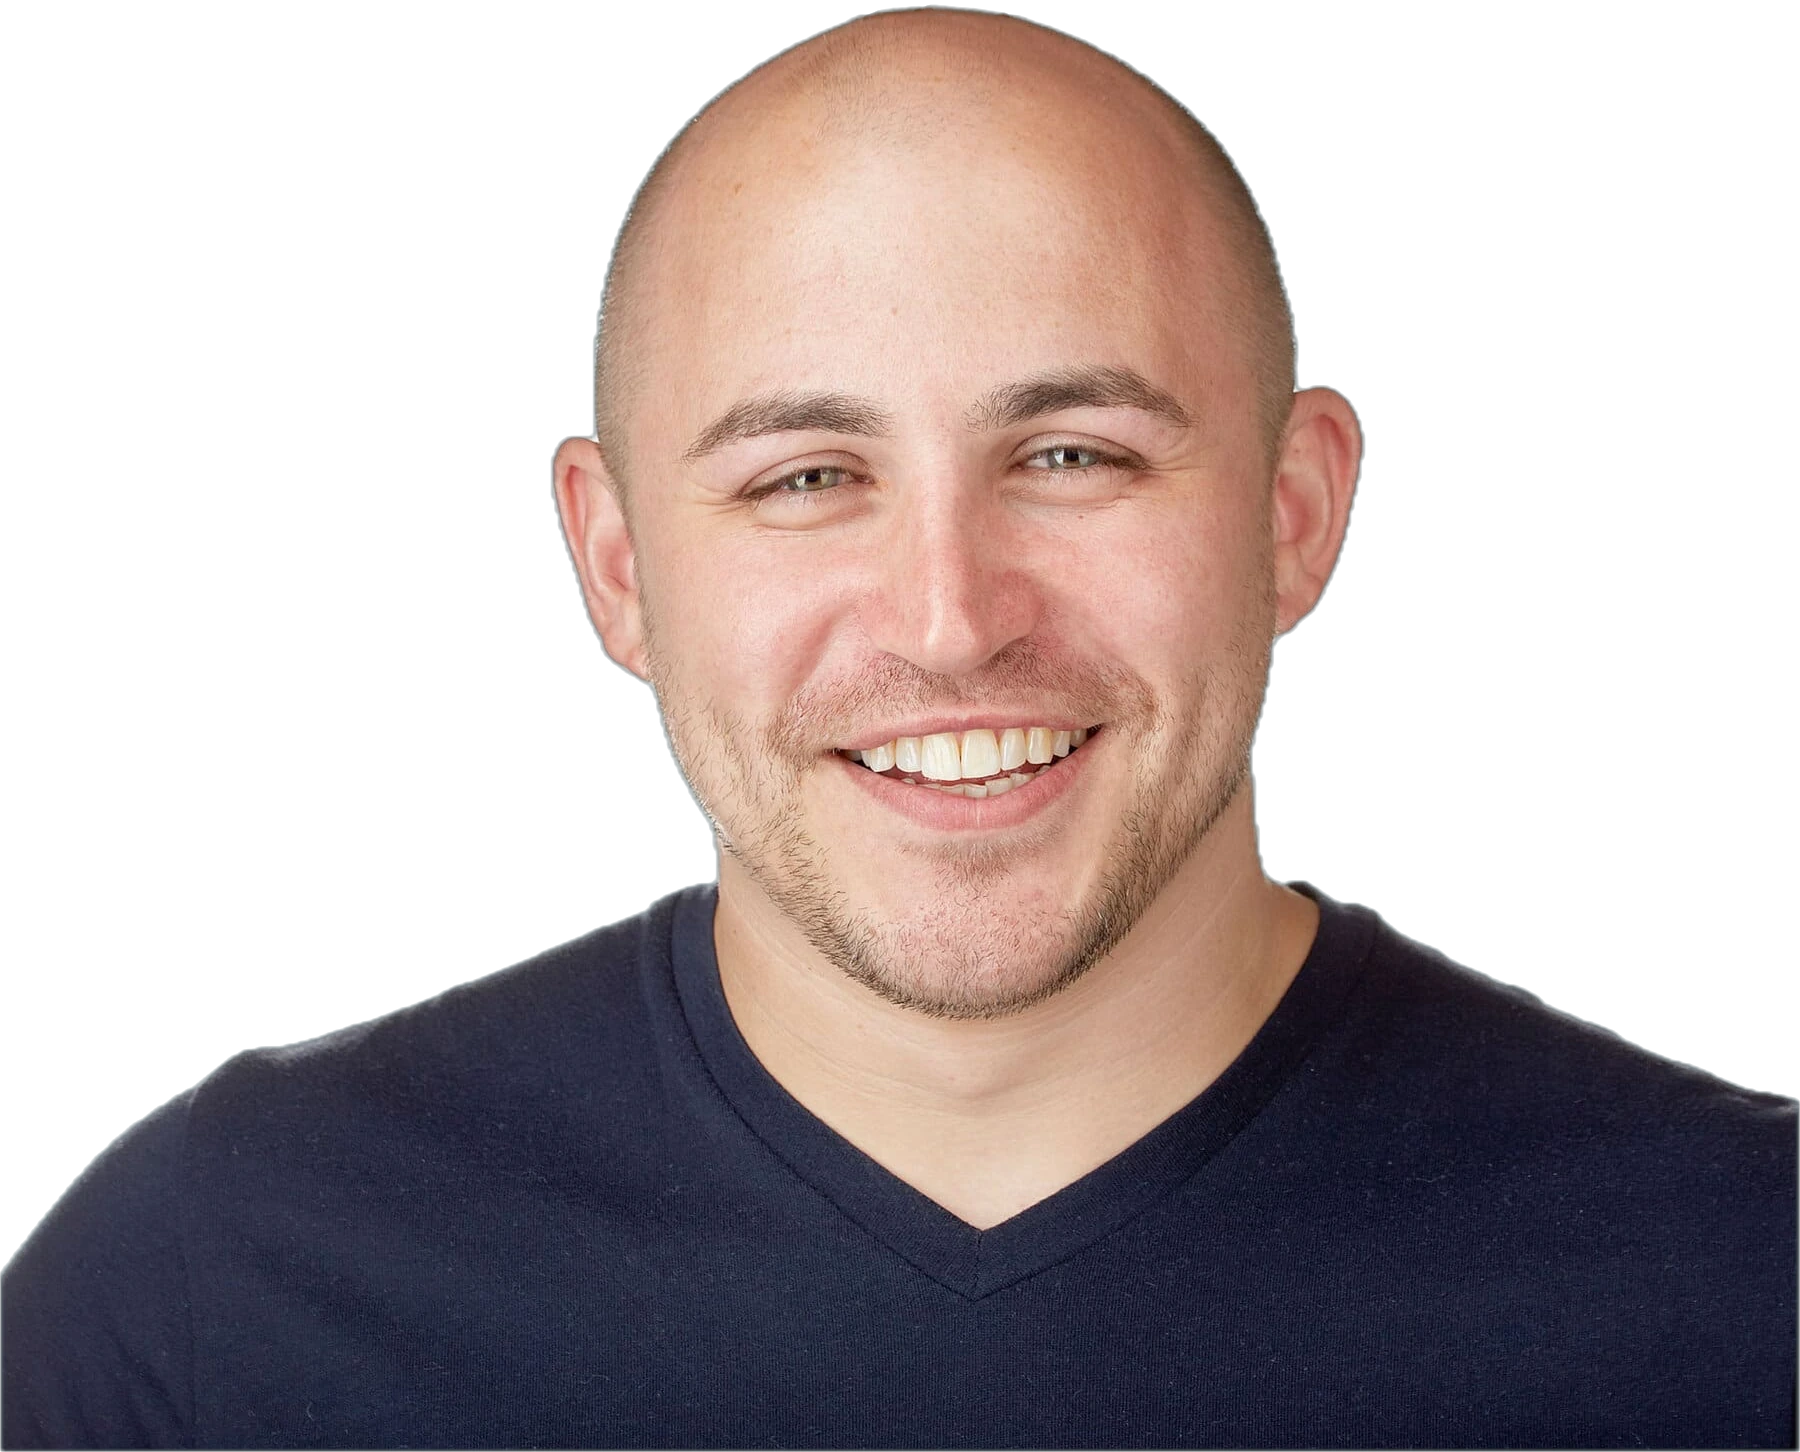
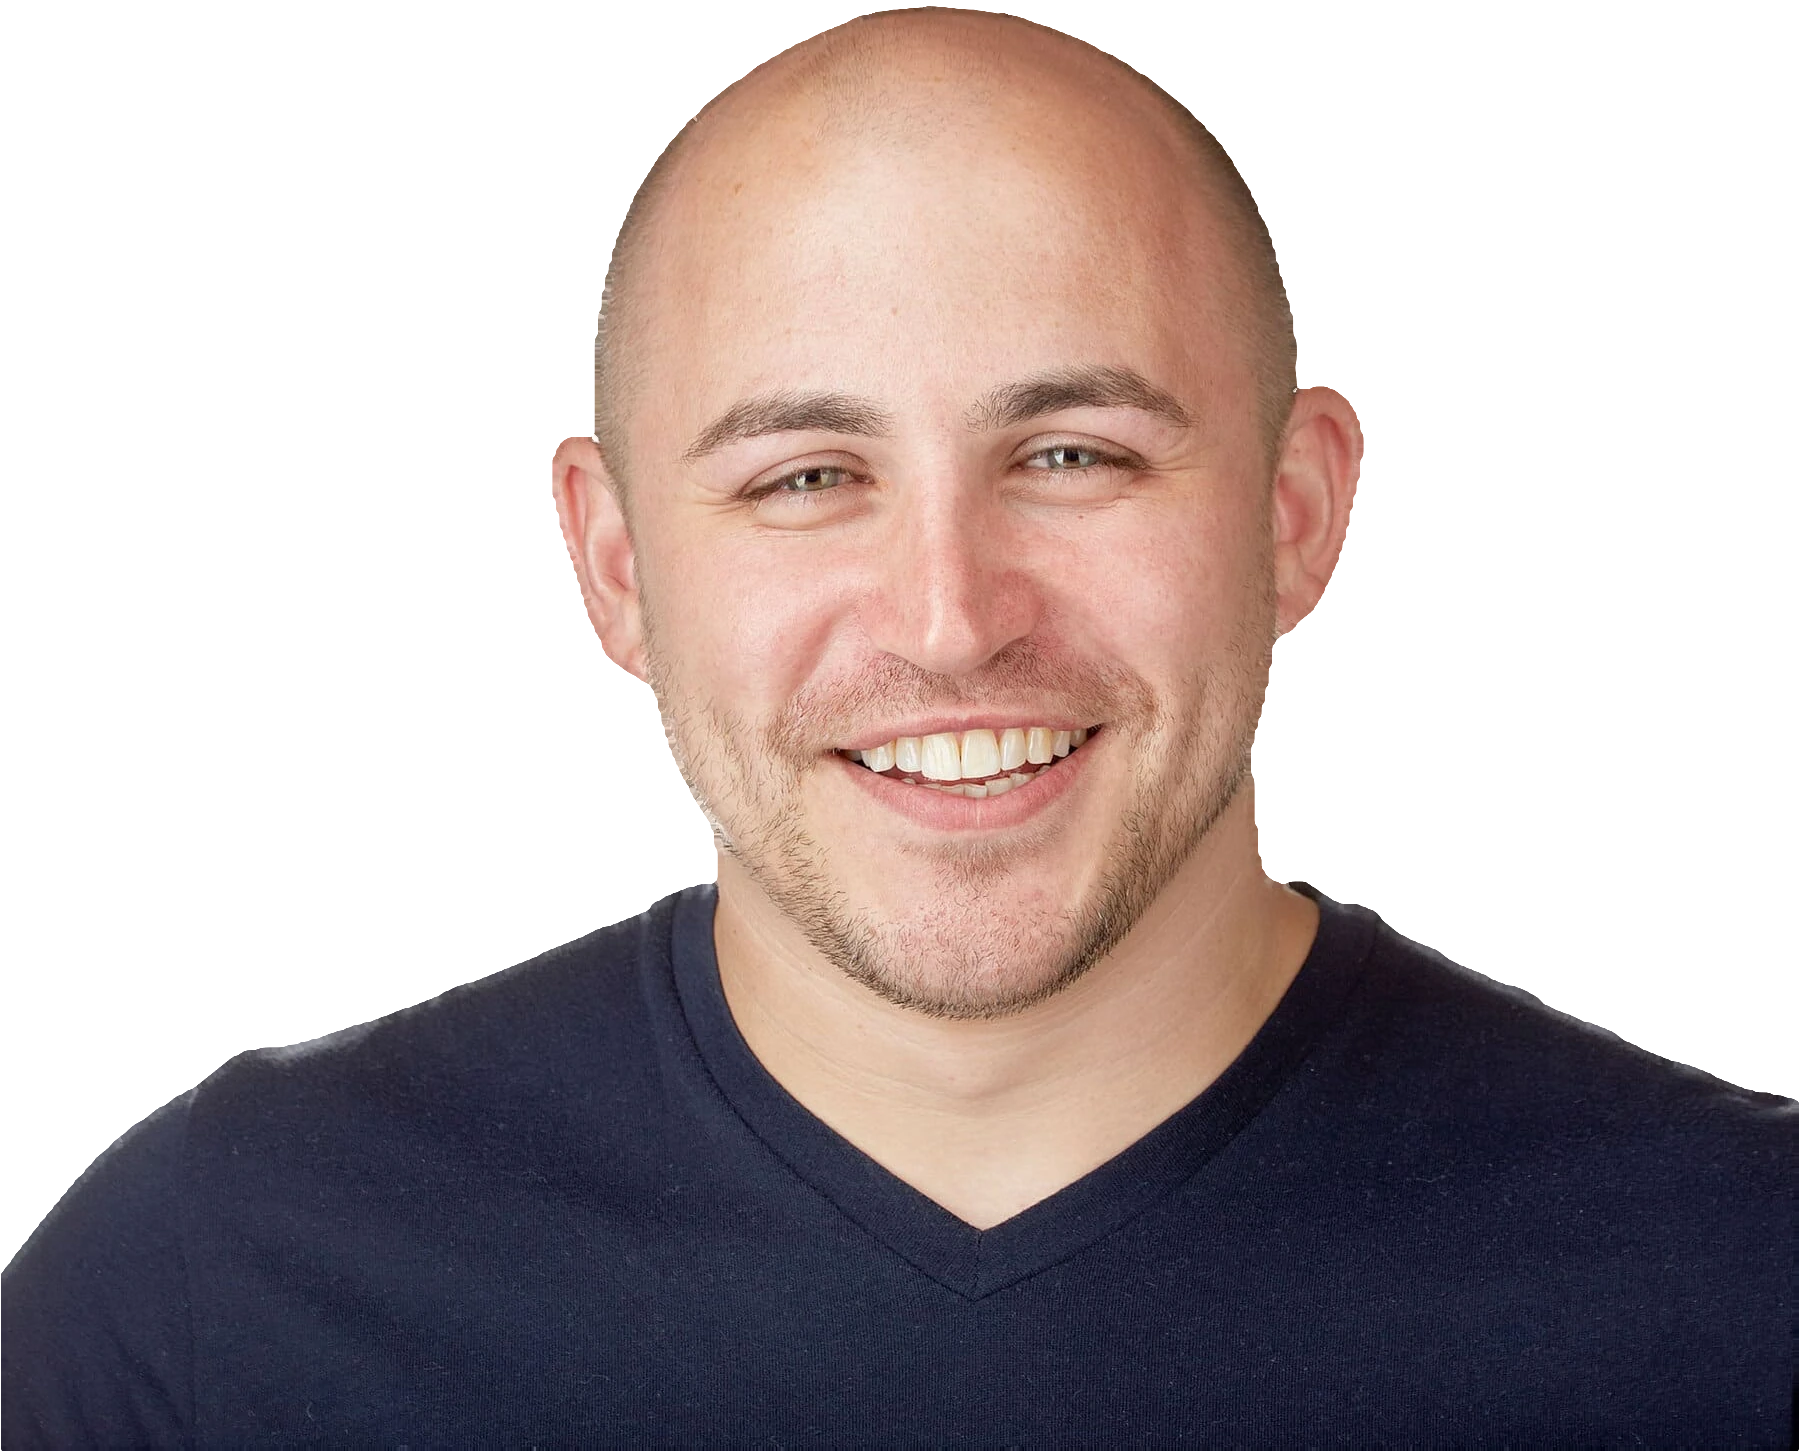
One background-agnostic matte; lighter Clear Water stop; kill the yellow cast
Ole's suggestion was the right one: rather than blending the cutout's edge
toward a particular ground — which meant one asset per ground, and Clear Water
now has two — the matte itself is made honest. Every pixel takes the subject's
own colour via the edge-extend, the matte is choked, and the remaining ramp is
compressed to about a pixel, so only 0.08% of pixels carry partial coverage
(was 2.8%). Straight compositing is then simply correct wherever it lands:
measured rim-vs-interior +1.8 on the dark plate and +4.4 on the lifted band,
from a single file. At display size the browser resamples the hard edge back to
a smooth one using his colour rather than a guess at the background's.

The Clear Water lift goes lighter, to #236c84 — the shirt now reads at 3.02:1
against the band instead of 1.19:1. It can go that far because none of the copy
reaches down there: evaluating the gradient under each element individually, the
lightest ground under any hero text is rgb(20,70,87), where the worst case still
measures 5.68:1.

And the toning was making his face yellow in all three. The warm layer at a blue
limit of 115 was adding 38 points of yellowness — jaundice, not warmth — so it
is now 195 at 30%, which adds about 2. The multiply layer had the opposite
fault: at 50% of a deeper tint it pulled 9.6 luminance out of the highlights and
cooled them by 5.2, cancelling the warm layer completely. Pale tint at 28% now:
highlights -2.8 luminance, blacks -0.1.

diff --git a/design/clear-water.html b/design/clear-water.html
@@ -53,13 +53,15 @@ nav a:hover{color:var(--teal)}
    t-shirt meets the band directly — at a flat #0b2a34 the two are 1.19:1 apart
    and the edge simply bleeds. There the ground lifts: mostly vertical but
    raked a little toward the lower left, which is where the near shoulder sits
-   and where the problem is worst. Against the lifted #17495a the shirt reads at
-   1.82:1, and the copy is unaffected — 9.83:1 for the headline, 5.05:1 for the
-   eyebrow, measured at the lightest stop. */
+   and where the problem is worst. The lightest stop is #236c84, which puts the
+   shirt at 3.02:1 instead of 1.19:1. The copy can take it because none of it
+   reaches down there — measured element by element against the gradient
+   evaluated under each one, the lightest ground under any hero text is
+   rgb(15,53,68). */
 .hero{color:#eaf3f5;padding:calc(var(--section)*.85) 0 0;position:relative;isolation:isolate;overflow:clip;
   background:var(--deep)}
 @media(max-width:879px){
-  .hero{background:linear-gradient(199deg,#0a2530 0%,#0b2a34 38%,#10394a 72%,#17495a 100%)}
+  .hero{background:linear-gradient(199deg,#0a2530 0%,#0b2a34 34%,#164b5d 72%,#236c84 100%)}
 }
 /* A very large, very quiet dark round behind the top left, so the corner has
    some weight and the eye starts there. */
@@ -148,12 +150,12 @@ section{padding:var(--section) 0}
    red-minus-blue — that is the warmth, measured rather than guessed. */
 .aboutPhoto{margin:0;width:min(300px,62vw);justify-self:start;position:relative;isolation:isolate}
 .aboutPhoto img{width:100%;height:auto;aspect-ratio:1;object-fit:cover;border-radius:50%;display:block;
-  box-shadow:0 0 0 1px var(--line);filter:brightness(1.18)}
+  box-shadow:0 0 0 1px var(--line);filter:brightness(1.10)}
 @supports (mix-blend-mode:multiply){
   .aboutPhoto::before,.aboutPhoto::after{content:"";position:absolute;inset:0;border-radius:50%;
     pointer-events:none}
-  .aboutPhoto::before{background:#e0f6fa;mix-blend-mode:multiply;opacity:.30}
-  .aboutPhoto::after{background:#ffff73;mix-blend-mode:darken;opacity:.70}
+  .aboutPhoto::before{background:#e8f8fb;mix-blend-mode:multiply;opacity:.22}
+  .aboutPhoto::after{background:#ffffc3;mix-blend-mode:darken;opacity:.30}
 }
 
 /* fees */
@@ -262,7 +264,7 @@ footer a{color:#d3e6ea}
         directly — you'll be speaking to me, not to a receptionist.</p>
     </div>
     <figure class="heroFig">
-      <img src="assets/john-cutout-dark.webp?v15" alt="John Goss" width="1800" height="1452" fetchpriority="high">
+      <img src="assets/john-cutout-dark.webp?v16" alt="John Goss" width="1800" height="1452" fetchpriority="high">
     </figure>
   </div>
 </section>
@@ -351,7 +353,7 @@ footer a{color:#d3e6ea}
       </div>
     </div>
     <figure class="aboutPhoto">
-      <img src="assets/john-portrait-round.webp?v15" alt="John Goss" width="620" height="620" loading="lazy">
+      <img src="assets/john-portrait-round.webp?v16" alt="John Goss" width="620" height="620" loading="lazy">
     </figure>
   </div>
 </section>

diff --git a/design/quiet-practice.html b/design/quiet-practice.html
@@ -118,13 +118,17 @@ section{padding:var(--section) 0}
 /* A toning, done entirely in CSS — the image file is untouched. Two overlays,
    each reaching one end of the tonal range:
 
-     multiply  scales each channel, so it tints toward the page's dark green
-               proportionally and BLACK STAYS BLACK (anything x 0 is 0) — the
-               shadows never lift the way a lighten layer made them
+     multiply  a very pale tint of the page's own hue. Multiply scales each
+               channel, so black stays black — but it also bites hardest where
+               the picture is brightest, so it is kept pale: at 50%% of a deeper
+               tint it was pulling 9.6 luminance out of his highlights and
+               cooling them by 5.2, which cancelled the warm layer entirely.
+
      darken    with R and G both at 255, so the layer can only ever pull the
-               BLUE channel — the lights warm and nothing gets darker. Measured:
-               highlights +20 red-minus-blue at -1.5 luminance, midtones and
-               shadows unchanged to two decimal places.
+               BLUE channel — the lights warm and nothing gets darker. Kept
+               deliberately shallow: at a blue limit of 115 it added 38 points
+               of yellowness to his face, which reads as jaundice rather than
+               warmth. At 195 it adds 2.1, which is a hint.
 
    Measured against the actual photograph: blacks -0.5, shadows -1.9, midtones
    -5.0, highlights -7.1 blue. */
@@ -134,8 +138,8 @@ section{padding:var(--section) 0}
 @supports (mix-blend-mode:multiply){
   .aboutPhoto::before,.aboutPhoto::after{content:"";position:absolute;inset:0;border-radius:50%;
     pointer-events:none}
-  .aboutPhoto::before{background:#c8ece0;mix-blend-mode:multiply;opacity:.50}
-  .aboutPhoto::after{background:#ffff73;mix-blend-mode:darken;opacity:.70}
+  .aboutPhoto::before{background:#e6f4ee;mix-blend-mode:multiply;opacity:.28}
+  .aboutPhoto::after{background:#ffffc3;mix-blend-mode:darken;opacity:.30}
 }
 .prose{max-width:64ch}
 .prose p{color:var(--muted);font-size:18px}
@@ -245,7 +249,7 @@ footer a{color:#d7e2dc}
         we'll find a time to talk. You'll be speaking to me, not to a receptionist.</p>
     </div>
     <figure class="portrait">
-      <span class="cutframe"><img src="assets/john-cutout.webp?v15" alt="John Goss" width="1800" height="1452" fetchpriority="high"></span>
+      <span class="cutframe"><img src="assets/john-cutout.webp?v16" alt="John Goss" width="1800" height="1452" fetchpriority="high"></span>
     </figure>
   </div>
 </section>
@@ -313,7 +317,7 @@ footer a{color:#d7e2dc}
     </div>
     </div>
     <figure class="aboutPhoto">
-      <img src="assets/john-portrait-round.webp?v15" alt="John Goss" width="620" height="620" loading="lazy">
+      <img src="assets/john-portrait-round.webp?v16" alt="John Goss" width="620" height="620" loading="lazy">
     </figure>
   </div>
 </section>

diff --git a/design/full-colour.html b/design/full-colour.html
@@ -209,13 +209,17 @@ h2{font-size:clamp(30px,4.6vw,52px)}
 /* A toning, done entirely in CSS — the image file is untouched. Two overlays,
    each reaching one end of the tonal range:
 
-     multiply  scales each channel, so it tints toward the block's own teal
-               proportionally and BLACK STAYS BLACK (anything x 0 is 0) — the
-               shadows never lift the way a lighten layer made them
+     multiply  a very pale tint of the page's own hue. Multiply scales each
+               channel, so black stays black — but it also bites hardest where
+               the picture is brightest, so it is kept pale: at 50%% of a deeper
+               tint it was pulling 9.6 luminance out of his highlights and
+               cooling them by 5.2, which cancelled the warm layer entirely.
+
      darken    with R and G both at 255, so the layer can only ever pull the
-               BLUE channel — the lights warm and nothing gets darker. Measured:
-               highlights +20 red-minus-blue at -1.5 luminance, midtones and
-               shadows unchanged to two decimal places.
+               BLUE channel — the lights warm and nothing gets darker. Kept
+               deliberately shallow: at a blue limit of 115 it added 38 points
+               of yellowness to his face, which reads as jaundice rather than
+               warmth. At 195 it adds 2.1, which is a hint.
 
    Measured against the actual photograph: blacks -0.5, shadows -1.9, midtones
    -5.0, highlights -7.1 blue. */
@@ -224,8 +228,8 @@ h2{font-size:clamp(30px,4.6vw,52px)}
 @supports (mix-blend-mode:multiply){
   .aboutPhoto::before,.aboutPhoto::after{content:"";position:absolute;inset:0;border-radius:50%;
     pointer-events:none}
-  .aboutPhoto::before{background:#c4ece8;mix-blend-mode:multiply;opacity:.50}
-  .aboutPhoto::after{background:#ffff73;mix-blend-mode:darken;opacity:.70}
+  .aboutPhoto::before{background:#e4f4f1;mix-blend-mode:multiply;opacity:.28}
+  .aboutPhoto::after{background:#ffffc3;mix-blend-mode:darken;opacity:.30}
 }
 
 /* fees — rows, not cards */
@@ -389,7 +393,7 @@ footer a:hover{color:#fff}
         whichever feels easiest today.</p>
     </div>
     <figure class="heroFig">
-      <img src="assets/john-cutout.webp?v15" alt="John Goss" width="1800" height="1452" fetchpriority="high">
+      <img src="assets/john-cutout.webp?v16" alt="John Goss" width="1800" height="1452" fetchpriority="high">
     </figure>
   </div>
 </section>
@@ -495,7 +499,7 @@ footer a:hover{color:#fff}
         <a class="more" href="/about">More about me and how I work</a>
       </div>
       <figure class="aboutPhoto">
-        <img src="assets/john-portrait-round.webp?v15" alt="John Goss" width="620" height="620" loading="lazy">
+        <img src="assets/john-portrait-round.webp?v16" alt="John Goss" width="620" height="620" loading="lazy">
       </figure>
     </div>
   </div>

diff --git a/scripts/build-cutouts.py b/scripts/build-cutouts.py
@@ -19,7 +19,10 @@ Three assets come out in design/assets/:
                           narrower than the image: the crop is made by the frame or the viewport,
                           never by a line floating mid-section.
 
-  john-cutout-dark.webp   the same figure prepared for dark grounds. A matte pulled from a white
+  john-cutout-dark.webp   the same figure with a hard, honest matte: subject
+                          colour in every pixel and almost no partial coverage,
+                          so it composites correctly against any ground rather
+                          than being tuned to one. A matte pulled from a white
                           backdrop carries light wrap on the silhouette, which glows when
                           composited onto a dark band — the same problem as green spill. Treated
                           the standard keyer way: colour edge-extend (partially covered pixels
@@ -60,59 +63,50 @@ def knockout():
     print(f"  knockout: {im.size[0]}x{im.size[1]}")
 
 
-def dark_variant(bg=(13, 48, 59)):
-    """Prepare the figure for a dark ground.
+def solid_matte():
+    """One asset that composites correctly against ANY ground.
 
-    A matte lifted from a white backdrop is doubly wrong on a dark band: the
-    partially covered pixels carry backdrop-contaminated colour, and even after
-    decontamination the real rim light in the photograph reads as a glow. The
-    fix is the one a compositor uses on a dark plate:
+    The earlier variants blended their edge toward a specific destination
+    colour, which meant one asset per background — and Clear Water has two. The
+    fix is to make the matte honest instead of tuned:
 
-      1. colour edge-extend  — partial pixels take the nearest fully opaque
-         colour, so no backdrop colour survives in the fringe at all
-      2. choke               — pull the matte in, dropping the outermost and
-         most contaminated coverage
-      3. edge blend          — mix the remaining partial pixels toward the
-         DESTINATION colour in proportion to how uncovered they are, so the
-         fringe sits in the band instead of floating in front of it
-      4. negative light wrap — a narrow inward darkening, the inverse of the
-         light wrap you would add on a bright plate
+      1. colour edge-extend  every partially covered pixel takes the colour of
+         the nearest fully opaque pixel, so no backdrop colour survives anywhere
+         in the fringe — the RGB is the subject's own, everywhere
+      2. choke               pull the matte in past the contaminated coverage
+      3. harden the alpha    compress the remaining ramp to about a pixel, so
+         there is almost no partial coverage left to carry a wrong colour
+
+    Then `out = subject x alpha + ground x (1 - alpha)` is simply correct for
+    whatever ground it lands on. At display size the browser resamples the hard
+    edge back to a smooth one, using the subject's colour rather than a guess at
+    the background's.
     """
-    # Two contexts: the circular plate (7,32,40) above 880px and the lifted band
-    # (23,73,90) below it. The blend target sits between them, so neither shows
-    # more than about 10 points of luminance mismatch at the very edge.
-    bgv = np.array(bg, float)
     m = np.array(Image.open(f"{OUT}/john-cutout.webp").convert("RGBA")).astype(np.float32)
     A = m[..., 3:4] / 255.0
     RGB = m[..., :3]
     core = A[..., 0] >= 0.97
     _, ind = distance_transform_edt(~core, return_indices=True)
-    ext = RGB[ind[0], ind[1]]
-    w = np.clip((A[..., 0] - 0.05) / 0.92, 0, 1)[..., None]
-    RGB2 = RGB * w + ext * (1 - w)                       # 1. edge-extend
-    A2 = np.clip((A - 0.22) / 0.78, 0, 1)                # 2. choke, ~0.9px
-    blend = np.clip((1.0 - A2) * 0.9, 0, 1)              # 3. blend toward the ground
-    RGB3 = RGB2 * (1 - blend) + bgv * blend
-    dist = distance_transform_edt(A2[..., 0] > 0.5)
-    wrap = np.clip((2.6 - dist) / 2.6, 0, 1) * (A2[..., 0] > 0.02)
-    RGB4 = RGB3 * (1 - 0.14 * wrap)[..., None]           # 4. negative wrap
-    Image.fromarray(np.dstack([np.clip(RGB4, 0, 255), np.clip(A2 * 255, 0, 255)]).astype(np.uint8),
+    RGB2 = RGB[ind[0], ind[1]]                           # 1. subject colour everywhere
+    A2 = np.clip((A - 0.30) / 0.55, 0, 1)                # 2. choke
+    A3 = np.clip((A2 - 0.5) * 6.0 + 0.5, 0, 1)           # 3. harden to ~1px of ramp
+    Image.fromarray(np.dstack([np.clip(RGB2, 0, 255), np.clip(A3 * 255, 0, 255)]).astype(np.uint8),
                     "RGBA").save(f"{OUT}/john-cutout-dark.webp", "WEBP",
                                  quality=92, alpha_quality=100, exact=True, method=6)
     d = np.array(Image.open(f"{OUT}/john-cutout-dark.webp").convert("RGBA")).astype(np.float32)
     aa = d[..., 3:4] / 255.0
-    comp = d[..., :3] * aa + bgv * (1 - aa)
-    cl = 0.2126 * comp[..., 0] + 0.7152 * comp[..., 1] + 0.0722 * comp[..., 2]
-    dd = distance_transform_edt(aa[..., 0] > 0.02)
-    bgl = 0.2126 * bgv[0] + 0.7152 * bgv[1] + 0.0722 * bgv[2]
-    prof = [(lo, float(cl[sel].mean()))
-            for lo, hi in [(0, 1), (1, 2), (2, 3), (3, 5), (5, 8), (8, 14), (14, 25)]
-            for sel in [(dd >= lo) & (dd < hi) & (aa[..., 0] > 0.02)] if sel.any()]
-    print("  dark variant on rgb%s (luminance %.0f) by depth: %s"
-          % (tuple(int(v) for v in bg), bgl, ", ".join(f"{lo}px {v:.0f}" for lo, v in prof)))
-    interior = prof[-1][1]
-    overshoot = max(v for _, v in prof[:3]) - interior
-    print("  outermost 3px vs interior: %+.1f  (positive = a bright rim; want <= 0)" % overshoot)
+    partial = ((aa > 0.02) & (aa < 0.98)).mean() * 100
+    print("  solid matte: %.2f%% of pixels carry partial coverage (was ~2.8%%)" % partial)
+    for bg in [(7, 32, 40), (30, 98, 120), (247, 244, 238)]:
+        bgv = np.array(bg, float)
+        comp = d[..., :3] * aa + bgv * (1 - aa)
+        cl = 0.2126 * comp[..., 0] + 0.7152 * comp[..., 1] + 0.0722 * comp[..., 2]
+        dd = distance_transform_edt(aa[..., 0] > 0.5)
+        prof = [float(cl[(dd >= lo) & (dd < hi) & (aa[..., 0] > 0.5)].mean())
+                for lo, hi in [(1, 2), (2, 4), (4, 8), (8, 20)]]
+        bgl = 0.2126 * bg[0] + 0.7152 * bg[1] + 0.0722 * bg[2]
+        print("    on rgb%-16s (lum %3.0f): edge %s  -> rim vs interior %+.1f"
+              % (str(tuple(bg)), bgl, " ".join(f"{v:.0f}" for v in prof), prof[0] - prof[-1]))
 
 
 def round_portrait():
@@ -149,7 +143,7 @@ if FROM_MASTER:
     print("  keeping design/assets/john-cutout.webp as it stands")
 else:
     knockout()
-dark_variant()
+solid_matte()
 round_portrait()
 for f in ("john-cutout.webp", "john-cutout-dark.webp", "john-portrait-round.webp"):
     print("  %-26s %6.0f KB" % (f, os.path.getsize(f"{OUT}/{f}") / 1024))
